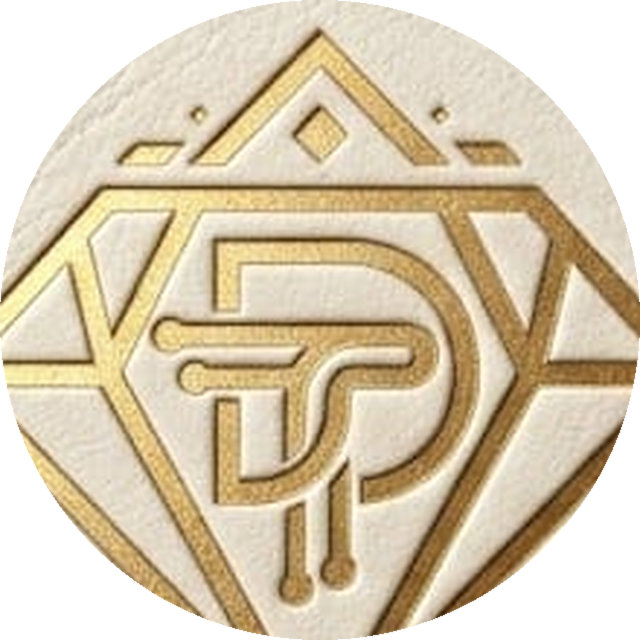
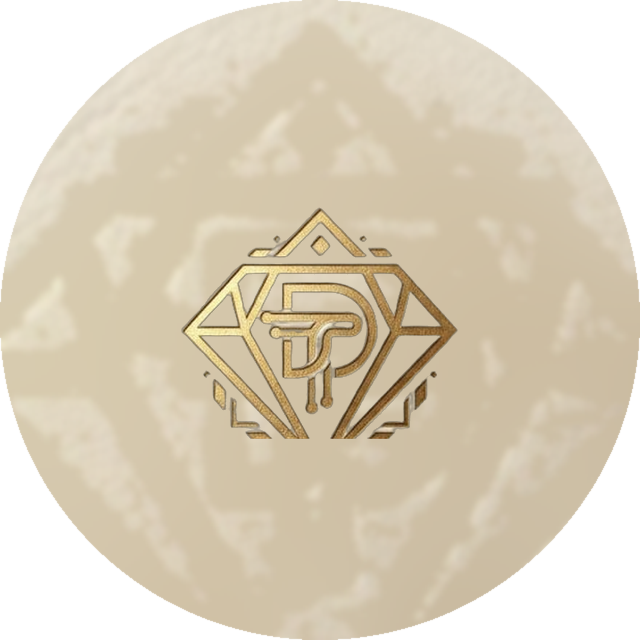
Fit full diamond in about seal; brand spelling DAVID TUBUL
Scale the circular emblem so diamond tips clear the rim, and refresh
header/hero lockups plus footer copy to the correct Tubul spelling.

diff --git a/src/components/BrandLogo.tsx b/src/components/BrandLogo.tsx
@@ -14,16 +14,16 @@ type BrandLogoProps = {
 
 /** Vertical lockup — curtain / hero / footer */
 const FULL = {
-  sm: { w: 120, h: 67 },
-  md: { w: 200, h: 112 },
-  lg: { w: 320, h: 179 },
+  sm: { w: 120, h: 113 },
+  md: { w: 200, h: 188 },
+  lg: { w: 280, h: 263 },
 } as const;
 
 /** Horizontal lockup — header pill */
 const FULL_H = {
-  sm: { w: 168, h: 40 },
-  md: { w: 220, h: 52 },
-  lg: { w: 300, h: 72 },
+  sm: { w: 168, h: 47 },
+  md: { w: 220, h: 61 },
+  lg: { w: 300, h: 83 },
 } as const;
 
 const MARK = {
@@ -34,7 +34,7 @@ const MARK = {
 
 /**
  * Official brand mark from the client's gold DT seal.
- * full       → vertical diamond + DAVID TOBUL + tagline
+ * full       → vertical diamond + DAVID TUBUL + tagline
  * full-wide  → horizontal (header)
  * mark       → diamond seal only
  */
@@ -54,10 +54,10 @@ export function BrandLogo({
         : FULL[size];
   const src =
     variant === "mark"
-      ? "/brand/dt-emblem.png?v=4"
+      ? "/brand/dt-emblem.png?v=5"
       : variant === "full-wide"
-        ? "/brand/david-tobul-logo-horizontal.png?v=4"
-        : "/brand/david-tobul-logo.png?v=4";
+        ? "/brand/david-tubul-logo-horizontal.png?v=5"
+        : "/brand/david-tubul-logo.png?v=5";
 
   const mark = (
     <span
@@ -67,7 +67,7 @@ export function BrandLogo({
     >
       <Image
         src={src}
-        alt="David Tobul — Premium Web Creator"
+        alt="David Tubul — Premium Web Creator"
         width={dims.w}
         height={dims.h}
         className="block h-auto w-auto max-w-none shrink-0 object-contain"
@@ -84,7 +84,7 @@ export function BrandLogo({
 
   if (href === false) {
     return (
-      <span className="inline-flex shrink-0 items-center" aria-label="David Tobul">
+      <span className="inline-flex shrink-0 items-center" aria-label="David Tubul">
         {mark}
       </span>
     );
@@ -94,7 +94,7 @@ export function BrandLogo({
     <Link
       href={href}
       onClick={onClick}
-      aria-label="David Tobul — דף הבית"
+      aria-label="David Tubul — דף הבית"
       className="inline-flex shrink-0 items-center no-underline"
       style={{ transform: "none" }}
     >

diff --git a/src/components/AboutIntro.tsx b/src/components/AboutIntro.tsx
@@ -25,12 +25,12 @@ export function AboutIntro() {
             <div className="absolute inset-0 rounded-full border border-[#D4AF37]/50 p-[3px]">
               <div className="relative h-full w-full overflow-hidden rounded-full bg-[#F3EEE4]">
                 <Image
-                  src="/brand/dt-emblem-circle.png?v=4"
-                  alt="David Tobul — סמל המותג"
+                  src="/brand/dt-emblem-circle.png?v=5"
+                  alt="David Tubul — סמל המותג"
                   width={640}
                   height={640}
                   sizes="(max-width: 640px) 192px, 288px"
-                  className="h-full w-full object-cover"
+                  className="h-full w-full object-contain"
                   priority
                   unoptimized
                 />

diff --git a/src/components/Footer.tsx b/src/components/Footer.tsx
@@ -52,7 +52,7 @@ export function Footer() {
           </div>
 
           <p className="text-[11px] font-light tracking-wide text-white/30 md:text-end">
-            © 2026 DAVID TOBUL
+            © 2026 DAVID TUBUL
           </p>
         </footer>
       </div>
